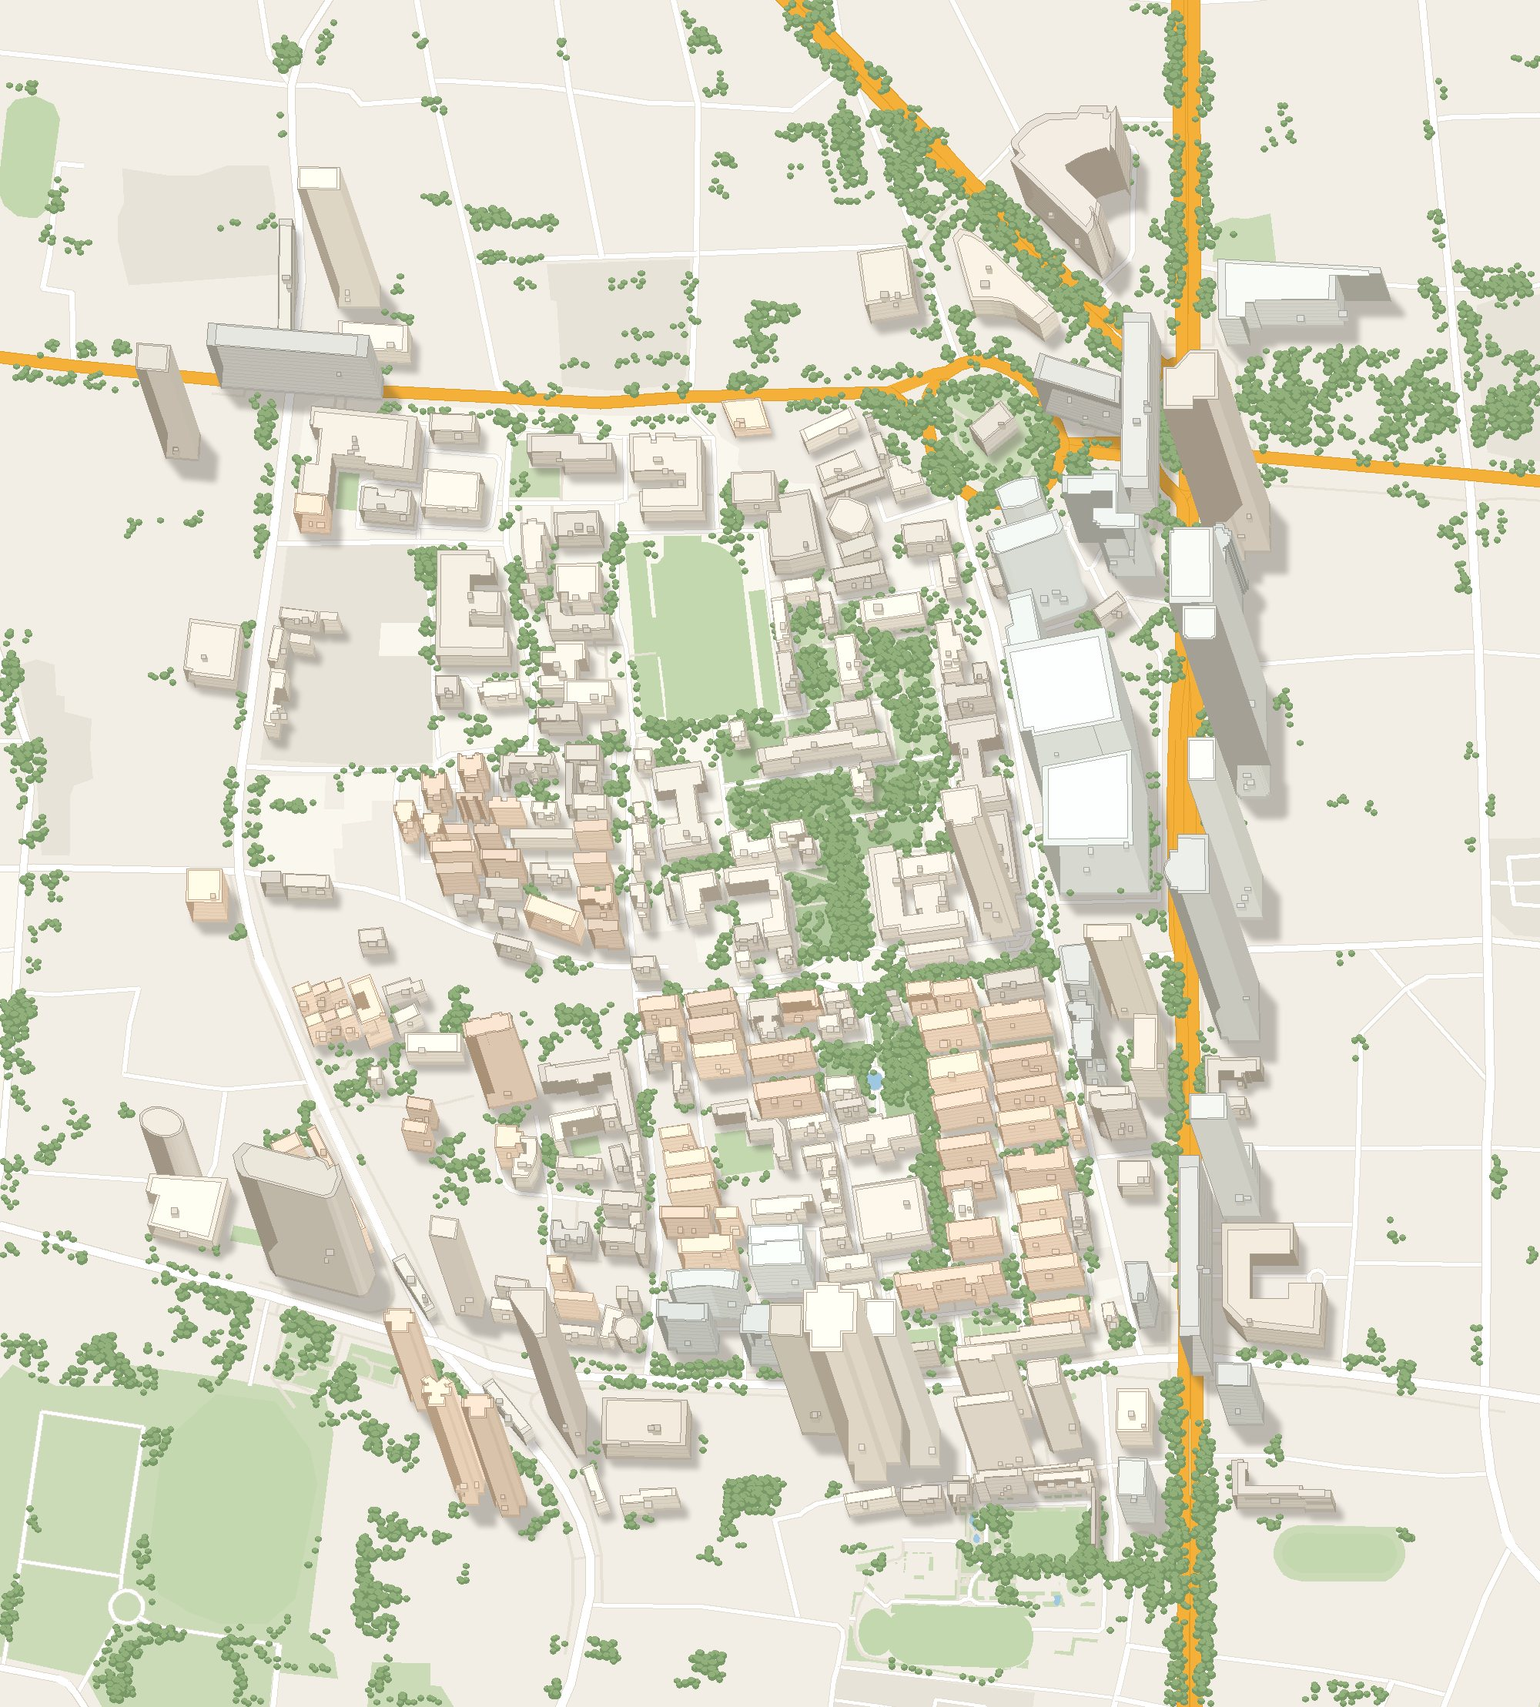
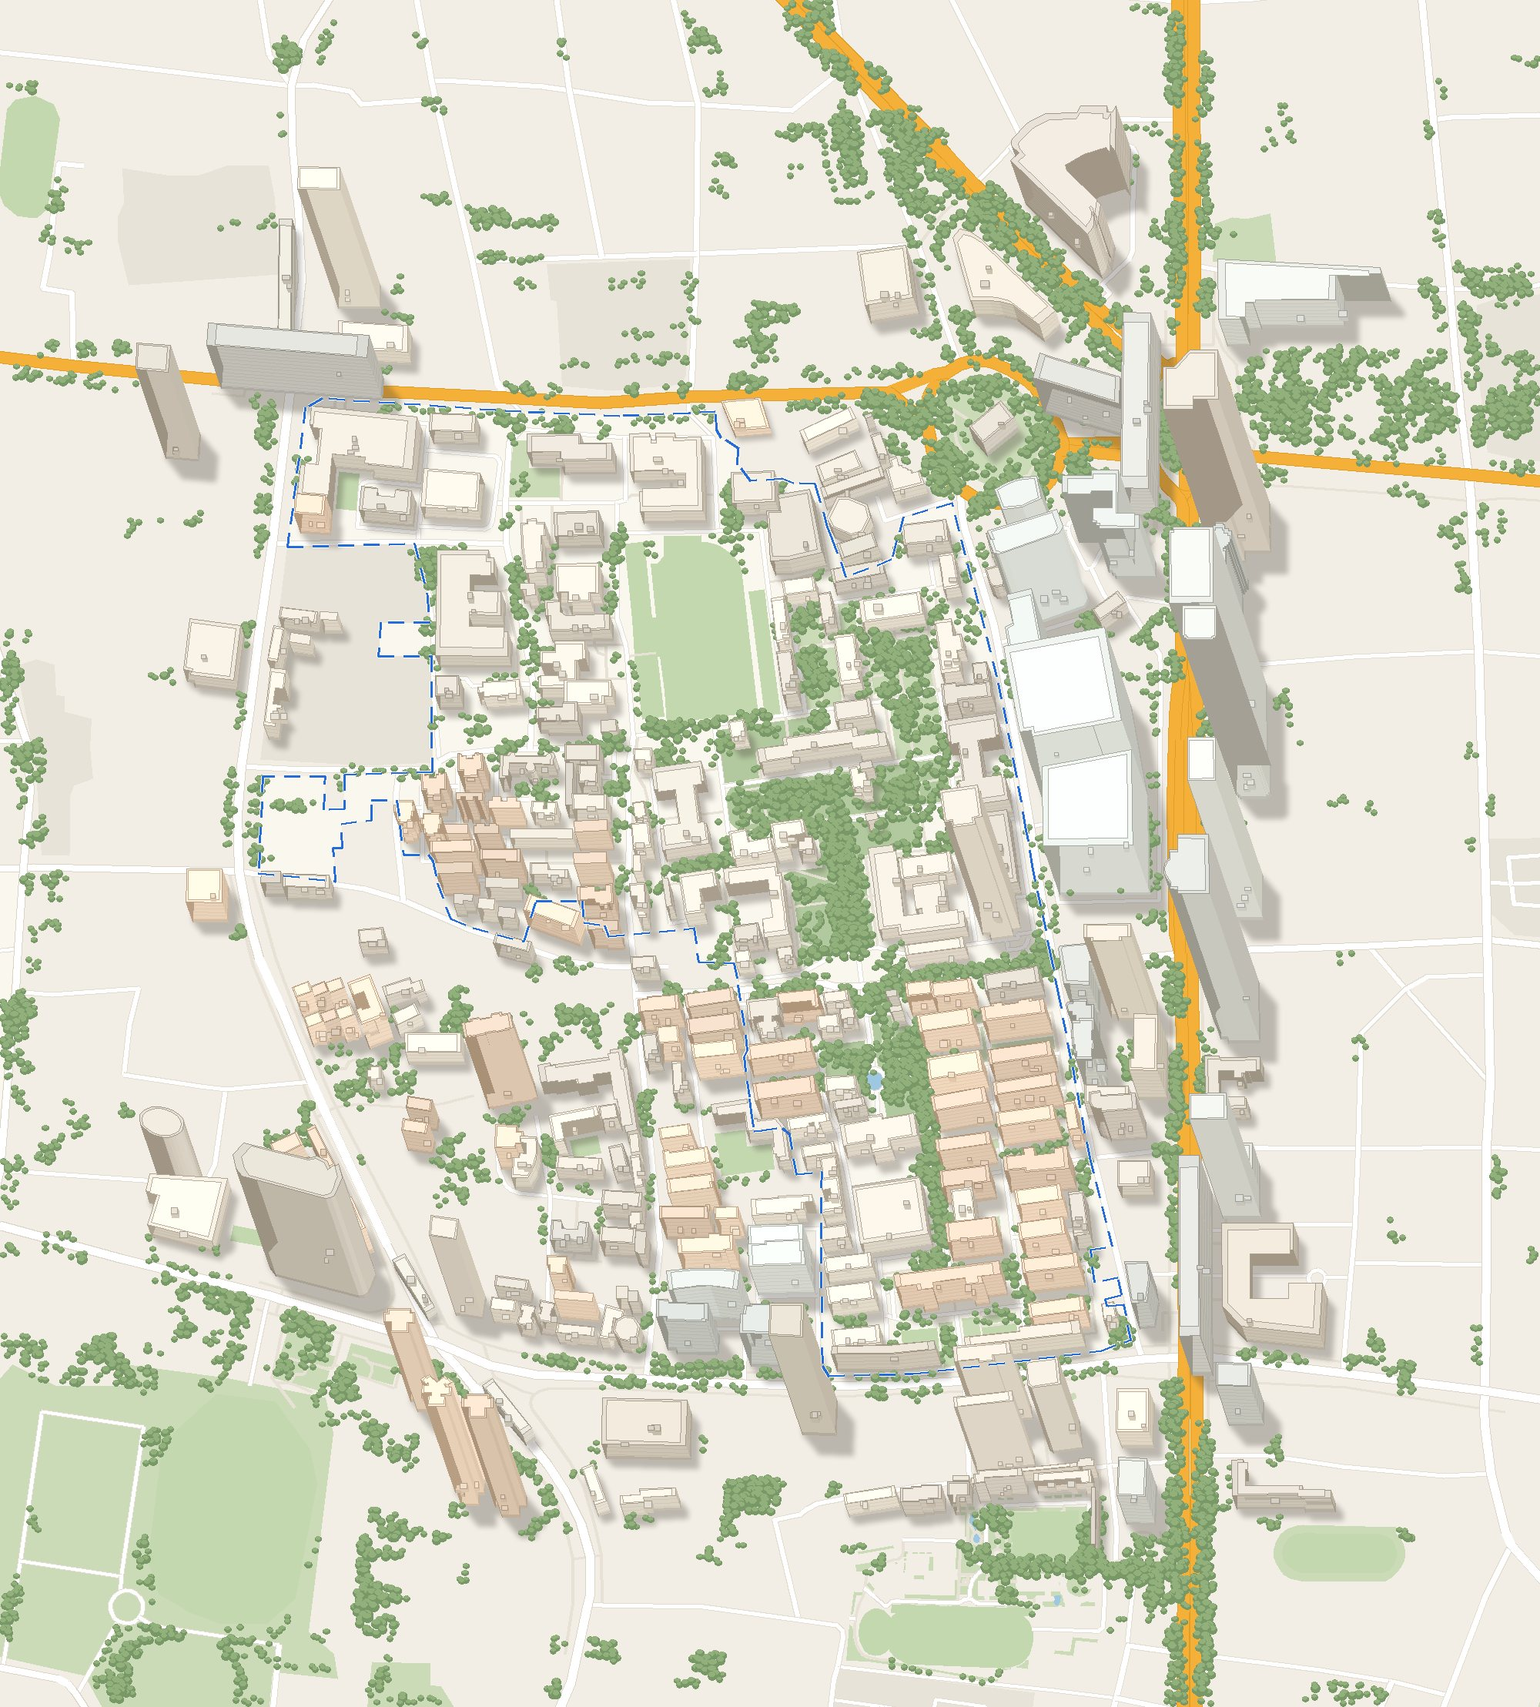
feat(basemap): 鼓楼底图去掉挡视线的校外高楼 + 三校区校园范围蓝色虚线
用户 2026-10-04 要求两件事：

①「鼓楼校区南边有两三栋太高的非学校的楼，遮着学校内部建筑了，把这几个去掉」

   原因：轴测是**向上挤出**的 —— 南边的高楼往上长，正好横跨校园内部的建筑。
   判据：在**校园边界南侧** 且 高度 ≥ SKIP_OUTSOUTH_H(120 m)。
   实测正好命中 3 栋：广海大厦 120 m + 两栋 132 m（下一档只到 100 m ⇒ 不误伤）。

   - 投影一并去掉（投影与建筑同出一份 items），否则会"楼没了、影子还在"
   - ⚠ roof_shapes() 必须用**同一套排除**，否则底图不画了、点选还能"吸"到那栋
     看不见的楼（几何不同源 = 静默错位）。回归测试钉住了这条。
   - ⚠ 判位置用自带的 _point_in_ring（射线法），**不引 shapely** ——
     云端 requirements.txt 里没有它，缓存失效需在云端重渲时会 ImportError ⇒ 退回瓦片
   - 仙林实测排除 0 栋（周边没有 ≥120 m 的校外高楼），无副作用

②「在图上实际地标一下校园的范围（你可以用蓝色虚线之类的？）」

   - _draw_campus_boundary()：白色略粗打底 + 蓝色虚线，压在深色屋顶或浅色地面上
     都看得清；虚线节奏随 z（底图宽度）缩放
   - ⚠ 与外框 frame 不是一回事：frame = 校园 + 周边 150 m 缓冲（整张图的外框），
     这条线画的是**校园本身的边界**（campus_boundaries.json 的 geojson）
   - 三校区统一：苏州走 glb_relief 另一条渲染路径，也接上同一个函数与配色
   - 实测发现**苏州的 OSM 校园边界不太全**（东南角那片模型建筑落在虚线外）；
     鼓楼/仙林正常。属数据源问题，不是渲染问题。

回归：test_static_basemap[10]（排除规则 / 吸附同步 / 虚线开关）
底图体积：鼓楼 708→727 KB、仙林 756→771 KB、苏州 374→399 KB
新增 tools/_analyze_outside.py（列出校园外建筑并按高度排序，便于以后挑挡视线的楼）
BUILD: 2026-10-04c → 2026-10-04d

diff --git a/relief_basemap.py b/relief_basemap.py
@@ -133,6 +133,22 @@ AO_ALPHA = 96                   # 底部遮蔽的不透明度（0~255）
 FLOOR_LINE_ALPHA = 92           # 楼层线的不透明度
 ROOF_MIN_PX = 16.0              # 屋顶小于这个尺寸就不做女儿墙/家具（做了反而脏）
 
+# ------------------------------------------- 校园范围虚线 + 校外"挡视线"的高楼
+# 用户 2026-10-04 要求：
+#   ① 「鼓楼校区南边有两三栋太高的**非学校**的楼，遮着学校内部建筑了，把这几个去掉」
+#      —— 轴测是**向上挤出**的：南边的高楼往上长，正好横跨校园内部 ⇒ 直接不画。
+#      判据 = 在**校园边界南侧**且高度 ≥ SKIP_OUTSOUTH_H。
+#      实测正好命中那 3 栋（两栋 132 m + 广海大厦 120 m），下一档只到 100 m ⇒ 不会误伤。
+#   ② 「在图上实际地标一下校园的范围（蓝色虚线之类的）」
+#      —— ⚠ 这与**外框 frame** 不是一回事：frame = 校园 + 周边 150 m 缓冲，
+#      而这条虚线画的是**校园本身的边界**（`data/raw/campus_boundaries.json`）。
+DRAW_CAMPUS_BOUNDARY = True
+BOUNDARY_COLOR = (38, 108, 214)     # 蓝色虚线（用户要求）
+BOUNDARY_WIDTH = 3
+BOUNDARY_DASH = 14.0                # 实线段长（像素，随 z 缩放）
+BOUNDARY_GAP = 9.0                  # 间隔（像素，随 z 缩放）
+SKIP_OUTSOUTH_H = 120.0             # 校园南侧超过这个高度的**校外**建筑不画
+
 
 def _tint_of(props: dict) -> tuple[int, int, int]:
     t = str(props.get("building") or "").strip()
@@ -166,6 +182,87 @@ def _point_in_ring(x, y, ring) -> bool:
             if x < xin:
                 inside = not inside
     return inside
+
+
+def _skipped_indexes(blds, bounds) -> set:
+    """挑出**不画**的建筑索引：校园南侧那些又高又在校园外的楼。
+
+    用户 2026-10-04：「鼓楼校区南边有两三栋太高的**非学校**的楼，遮着学校内部建筑了」。
+    轴测是**向上挤出**的 —— 南边的高楼往上长，正好横跨校园内部的建筑；而它们又不在
+    校园里，留着只会挡视线 ⇒ 直接不画（连同它们的投影一起，因为投影也在 items 里）。
+
+    ⚠ 用自带的 `_point_in_ring`（射线法）判位置，**千万不要引入 shapely**：
+    云端 `requirements.txt` 里没有 shapely（它只用于本地抓图/建模），
+    一旦底图缓存失效需要在云端重新渲染，就会 ImportError ⇒ 退回瓦片。
+    """
+    geo = (bounds or {}).get("geojson")
+    if not geo:
+        return set()
+    try:
+        rings = geo["coordinates"]
+    except Exception:
+        return set()
+    outer = rings[0] if rings else []          # 只取外环求南界
+    if len(outer) < 3:
+        return set()
+    s_lat = min(pt[1] for pt in outer)
+
+    skip = set()
+    for i, feat in enumerate(blds.get("features", [])):
+        props = feat.get("properties") or {}
+        if _height_m(props, i) < SKIP_OUTSOUTH_H:
+            continue
+        for ring in _rings_of(feat.get("geometry") or {}):
+            if len(ring) < 3:
+                continue
+            cy = sum(p[1] for p in ring) / len(ring)
+            if cy < s_lat:                     # 质心在校园南界之外
+                skip.add(i)
+                break
+    return skip
+
+
+def _dashed_polygon(d, pts, color, width, dash, gap) -> None:
+    """画**虚线**多边形（PIL 没有原生虚线，只能按段拆）。`pts` 已是像素坐标。"""
+    n = len(pts)
+    for i in range(n):
+        x0, y0 = pts[i]
+        x1, y1 = pts[(i + 1) % n]
+        seg = math.hypot(x1 - x0, y1 - y0)
+        if seg <= 0.5:
+            continue
+        ux, uy = (x1 - x0) / seg, (y1 - y0) / seg
+        t = 0.0
+        while t < seg:
+            e = min(t + dash, seg)
+            d.line([(x0 + ux * t, y0 + uy * t), (x0 + ux * e, y0 + uy * e)],
+                   fill=color, width=width)
+            t = e + gap
+
+
+def _draw_campus_boundary(d, proj, bounds, z) -> None:
+    """在底图上画**校园范围**的蓝色虚线。
+
+    ⚠ 与 `frame`（= 校园 + 周边 150 m 缓冲，也是整张图的外框）**不是一回事**：
+    这条线画的是**校园本身的边界**（`data/raw/campus_boundaries.json` 的 geojson），
+    让同学一眼看出"哪儿才算校园里"。
+
+    画两遍：先白色略粗打底、再蓝色 —— 这样压在深色屋顶或浅色地面上都看得清。
+    """
+    geo = (bounds or {}).get("geojson")
+    if not geo:
+        return
+    try:
+        rings = geo["coordinates"]
+    except Exception:
+        return
+    dash, gap = BOUNDARY_DASH * z, BOUNDARY_GAP * z
+    for ring in rings:
+        pts = [proj.pt(lo, la) for lo, la in ring]
+        if len(pts) < 3:
+            continue
+        _dashed_polygon(d, pts, (255, 255, 255), BOUNDARY_WIDTH + 2, dash, gap)
+        _dashed_polygon(d, pts, BOUNDARY_COLOR, BOUNDARY_WIDTH, dash, gap)
 
 
 def _roof_furniture(ring, seed, ppm, exag: float):
@@ -282,9 +379,18 @@ def roof_shapes(campus: str, s, w, n, e, *, width: int = 2000) -> dict:
     P = _project(s, w, n, e, width)
     proj, ppm = P["proj"], P["ppm"]
     blds = _load_json(RAW / f"{campus}_buildings.geojson")
+    try:
+        bounds = _load_json(RAW / "campus_boundaries.json").get(campus, {})
+    except Exception:
+        bounds = {}
+    # ⚠ 必须和 `_render` 用**同一套排除**：底图不画那几栋楼了，吸附却还认得它们的话，
+    #   同学点到那片空白会被"吸"到一栋看不见的楼上（几何不同源 = 静默错位）。
+    skip = _skipped_indexes(blds, bounds)
 
     items = []
     for idx, feat in enumerate(blds.get("features", [])):
+        if idx in skip:
+            continue
         props = feat.get("properties") or {}
         dz = _height_m(props, idx) * ppm * EXAG
         if dz < 1.0:
@@ -467,15 +573,22 @@ def _draw_building(d, it, z, floor_px):
 
 
 def _draw_scene(img, d, proj, blds, vec, px_per_m, z, *, shadows=True, trees=True,
-                campus: str | None = None):
+                campus: str | None = None, skip=None):
     """把**建筑（轴测挤出 + 细节）与树（圆簇）**按同一套"远近"顺序画出来。
 
     树和建筑必须一起排序：树要能挡住后面的楼，楼也要能挡住后面的树。
+
+    `skip` = 不画的建筑索引集合（校外挡视线的南侧高楼，见 `_skipped_indexes`）。
+    在这里排除，**投影也一并排除** —— 因为投影是由同一份 `items` 生成的，
+    否则会出现"楼没了、影子还在"。
     """
     from PIL import Image, ImageDraw, ImageFilter
 
+    skip = skip or set()
     items = []          # dict: kind / ring|center / dz|r / key
     for idx, feat in enumerate(blds.get("features", [])):
+        if idx in skip:
+            continue
         props = feat.get("properties") or {}
         dz = _height_m(props, idx) * px_per_m * EXAG
         pal = _palette(props, idx, z, campus)
@@ -604,12 +717,15 @@ def _render(campus, s, w, n, e, *, width, shadows):
 
     P = _project(s, w, n, e, width)
     proj, z, W, H, ppm = P["proj"], P["z"], P["W"], P["H"], P["ppm"]
+    skip = _skipped_indexes(blds, bounds)
 
     img = Image.new("RGB", (W, H), C["bg"])
     d = ImageDraw.Draw(img, "RGBA")
     vb.draw_ground_layers(d, proj, vec, bounds, z)      # 地面：平面色块，不动
     img, d = _draw_scene(img, d, proj, blds, vec, ppm, z,
-                         shadows=shadows, trees=True, campus=campus)
+                         shadows=shadows, trees=True, campus=campus, skip=skip)
+    if DRAW_CAMPUS_BOUNDARY:                            # 校园范围蓝色虚线
+        _draw_campus_boundary(d, proj, bounds, z)
 
     buf = io.BytesIO()
     img.save(buf, format="PNG", optimize=True)
@@ -671,6 +787,8 @@ def _style_tag() -> str:
     """
     raw = (f"{VIEW}|{LIGHT}|{SHADOW}|{SHADOW_ALPHA}|{SHADOW_BLUR}|{EXAG}|"
            f"{WALL_TOP}|{WALL_SIDE}|{ROOF}|{sorted(WALL_SIDE_BY_CAMPUS.items())}|"
+           f"{DRAW_CAMPUS_BOUNDARY}|{BOUNDARY_COLOR}|{BOUNDARY_WIDTH}|"
+           f"{BOUNDARY_DASH}|{BOUNDARY_GAP}|{SKIP_OUTSOUTH_H}|"
            f"{_trees_fingerprint()}")
     return hashlib.md5(raw.encode("utf-8")).hexdigest()[:10]
 

diff --git a/tools/_analyze_outside.py b/tools/_analyze_outside.py
@@ -1,0 +1,68 @@
+# -*- coding: utf-8 -*-
+"""列出**校园范围之外**的建筑（按高度降序），用于挑出"遮住校园内部的高楼"。
+
+背景（用户 2026-10-04 反馈）：鼓楼底图南边有两三栋**非学校**的高楼，
+在轴测图里向上挤出，正好压住校园内部的建筑。要把它们去掉。
+"""
+from __future__ import annotations
+
+import json
+import sys
+from pathlib import Path
+
+HERE = Path(__file__).resolve().parent.parent
+sys.path.insert(0, str(HERE))
+
+import relief_basemap as rb                       # noqa: E402
+from vector_basemap import _load_json, _rings_of  # noqa: E402
+
+
+def main(campus="gulou", top=14):
+    from shapely.geometry import Point, shape
+
+    b = json.loads((HERE / "data" / "raw" / "campus_boundaries.json")
+                   .read_text(encoding="utf-8"))
+    poly = shape(b[campus]["geojson"])
+    print(f"校园范围 bounds = {[round(v, 6) for v in poly.bounds]}")
+    print(f"纬度 {poly.bounds[1]:.6f} ~ {poly.bounds[3]:.6f}（南 ~ 北）")
+    print(f"经度 {poly.bounds[0]:.6f} ~ {poly.bounds[2]:.6f}（西 ~ 东）\n")
+
+    blds = _load_json(HERE / "data" / "raw" / f"{campus}_buildings.geojson")
+    rows = []
+    for i, f in enumerate(blds["features"]):
+        props = f.get("properties") or {}
+        rings = _rings_of(f.get("geometry") or {})
+        if not rings:
+            continue
+        ring = rings[0]
+        cx = sum(p[0] for p in ring) / len(ring)
+        cy = sum(p[1] for p in ring) / len(ring)
+        rows.append({
+            "idx": i, "h": rb._height_m(props, i), "lat": cy, "lon": cx,
+            "name": props.get("name"), "type": props.get("building"),
+            "inside": poly.contains(Point(cx, cy)), "nv": len(ring),
+            "id": props.get("id"),
+        })
+    ins = [r for r in rows if r["inside"]]
+    out = [r for r in rows if not r["inside"]]
+    print(f"总建筑 {len(rows)}  校园内 {len(ins)}  校园外 {len(out)}\n")
+
+    print(f"=== 校园外建筑（按高度降序，前 {top}）===")
+    print(f"{'高度m':>7} {'纬度':>9} {'经度':>10} {'顶点':>4}  {'南北':>4}  名称/类型")
+    for r in sorted(out, key=lambda r: -r["h"])[:top]:
+        side = "南" if r["lat"] < min(p[1] for p in poly.exterior.coords) else " "
+        print(f"{r['h']:7.1f} {r['lat']:9.5f} {r['lon']:10.5f} {r['nv']:4d}  {side:>4}  "
+              f"{r['name'] or r['type'] or '-'}   [{r['id']}]")
+
+    s_lat = min(p[1] for p in poly.exterior.coords)
+    south = [r for r in out if r["lat"] < s_lat]
+    print(f"\n=== 校园**南侧**（lat < {s_lat:.6f}）的建筑，共 {len(south)} 栋 ===")
+    for r in sorted(south, key=lambda r: -r["h"])[:12]:
+        print(f"{r['h']:7.1f} m  {r['lat']:.6f},{r['lon']:.6f}  "
+              f"{r['name'] or r['type'] or '-'}  [{r['id']}]")
+    return 0
+
+
+if __name__ == "__main__":
+    a = sys.argv[1:]
+    sys.exit(main(a[0] if a else "gulou"))

diff --git a/glb_relief.py b/glb_relief.py
@@ -558,6 +558,19 @@ def _render(campus: str, s: float, w: float, n: float, e: float, *, width: int,
     for _, name in keys:
         drawn += draw_group(name, layer="3d")
 
+    # 校园范围**蓝色虚线** —— 复用 relief_basemap 那一套（配色/线宽/虚线节奏三校区统一）。
+    # 苏州的楼是模型渲染，不存在"校外高楼挡视线"的问题；但**校园范围**这条线一样要画，
+    # 否则三张底图不一致，同学在苏州投稿时不知道边界在哪。
+    try:
+        import relief_basemap as _rb
+        _bounds = json.loads((RAW / "campus_boundaries.json")
+                             .read_text(encoding="utf-8")).get(campus, {})
+        if _rb.DRAW_CAMPUS_BOUNDARY:
+            _rb._draw_campus_boundary(d, proj, _bounds, img.width / 1400.0)
+    except Exception as exc:                     # 画不上不能连累整张底图
+        import sys as _sys
+        print(f"[glb] 校园范围虚线没画上（{type(exc).__name__}: {exc}）", file=_sys.stderr)
+
     buf = io.BytesIO()
     img.save(buf, format="PNG", optimize=True)
     return sb.FrameImage(png=buf.getvalue(), width=W, height=H, zoom=ZOOM,
@@ -575,8 +588,15 @@ def _style_tag():
         g = GEOREF.read_text(encoding="utf-8")
     except Exception:
         g = ""
+    # 校园范围虚线用的是 relief_basemap 的常量，也得进指纹（改了它苏州要重渲）
+    try:
+        import relief_basemap as _rb
+        btag = (f"{_rb.DRAW_CAMPUS_BOUNDARY}|{_rb.BOUNDARY_COLOR}|"
+                f"{_rb.BOUNDARY_WIDTH}|{_rb.BOUNDARY_DASH}|{_rb.BOUNDARY_GAP}")
+    except Exception:
+        btag = "none"
     raw = (f"{VIEW_H}|{LIGHT_H.tolist()}|{WALL_MIN}|{WALL_MAX}|{ROOF_F}|{EXAG}"
-           f"|{MIN_AREA_PX}|{PAL}|{DETAIL_SKIP}|{NAME_TINT}|{g}")
+           f"|{MIN_AREA_PX}|{PAL}|{DETAIL_SKIP}|{NAME_TINT}|{g}|{btag}")
     return hashlib.md5(raw.encode("utf-8")).hexdigest()[:10]
 
 

diff --git a/tools/test_static_basemap.py b/tools/test_static_basemap.py
@@ -326,6 +326,34 @@ try:
 except Exception as exc:
     check("屋顶吸附", False, f"{type(exc).__name__}: {exc}")
 
+# ---------------------------------------------------------------------------
+print("\n[10] 校园范围虚线 + 校外挡视线高楼排除")
+print("     —— 用户 2026-10-04：南边几栋非学校高楼挡住校园内部；并在图上标出校园范围")
+try:
+    import relief_basemap as _rb2
+
+    _bd = _json.loads((_rb2.RAW / "campus_boundaries.json").read_text(encoding="utf-8"))
+    _blds = _rb2._load_json(_rb2.RAW / "gulou_buildings.geojson")
+    _sk = _rb2._skipped_indexes(_blds, _bd["gulou"])
+    check("鼓楼: 排除了校园南侧的校外高楼", len(_sk) >= 1, f"{len(_sk)} 栋 idx={sorted(_sk)}")
+    check("鼓楼: 被排除的都是高楼（≥ SKIP_OUTSOUTH_H）",
+          all(_rb2._height_m(_blds["features"][i]["properties"], i) >= _rb2.SKIP_OUTSOUTH_H
+              for i in _sk))
+    # 排除项必须**同时**从吸附几何里去掉，否则会吸到看不见的楼
+    _rf = _rb2.roof_shapes("gulou", *frame_of("gulou"), width=2000)
+    _n_bld_visible = len(_blds["features"]) - len(_sk)
+    check("鼓楼: 吸附几何里的楼数 = 可见楼数（排除已同步）",
+          len(_rf["b"]) <= _n_bld_visible,
+          f"屋顶 {len(_rf['b'])} ≤ 可见楼 {_n_bld_visible}")
+    check("校园范围虚线已开启（蓝色）", _rb2.DRAW_CAMPUS_BOUNDARY is True
+          and _rb2.BOUNDARY_COLOR[2] > _rb2.BOUNDARY_COLOR[0],
+          f"color={_rb2.BOUNDARY_COLOR}")
+    # 苏州走 glb 路径，也要画同一条虚线（引用的是 relief 的常量与函数）
+    import glb_relief as _gr
+    check("苏州: glb 渲染也接了校园虚线", hasattr(_gr, "_render"))
+except Exception as exc:
+    check("校园虚线/排除规则", False, f"{type(exc).__name__}: {exc}")
+
 print("\n" + "=" * 66)
 # 清理测试自己生成的中间产物。
 #

diff --git a/site_common.py b/site_common.py
@@ -26,7 +26,7 @@ ADMIN_PAGE = "管理员"
 
 # 构建版本：显示在侧边栏，用来确认线上部署的是哪一版。
 # 改代码时**一起改这个**，push 后刷新线上即可确认是否真的更新了。
-BUILD = "2026-10-04c"
+BUILD = "2026-10-04d"
 
 # 页面文件（Streamlit 按文件路由：根目录 app.py = "/"，pages/ 下的各占一个路径）
 SUBMIT_FILE = "app.py"
